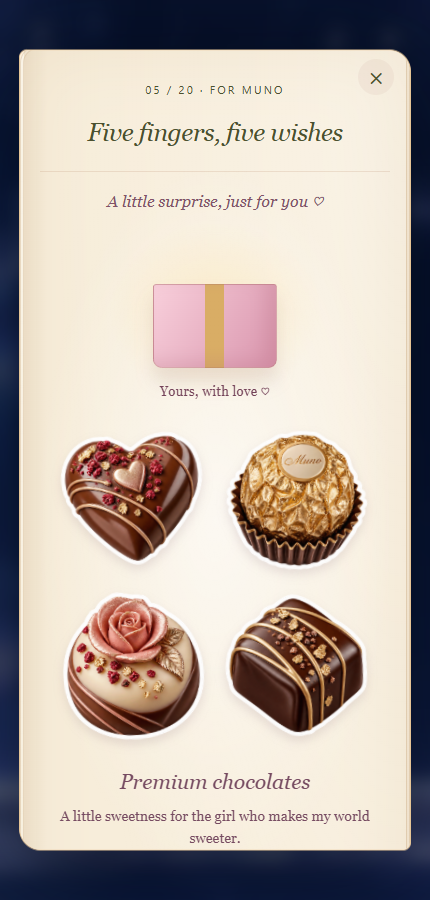
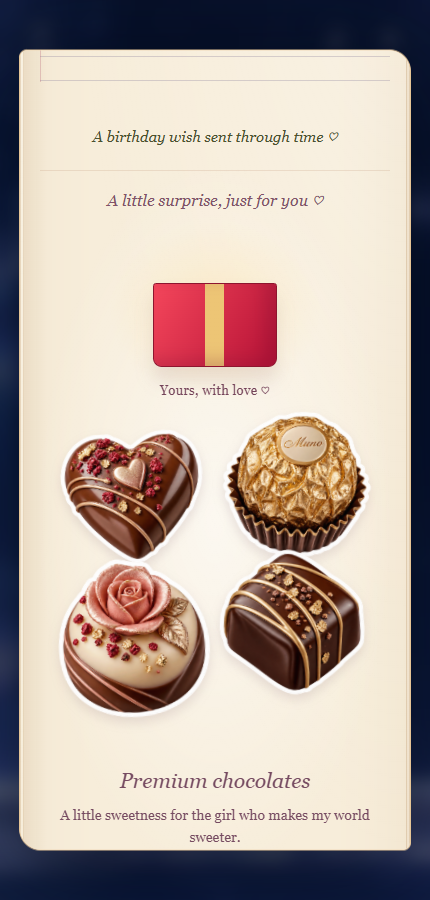
fixing letters scroll

diff --git a/letter-gifts.js b/letter-gifts.js
@@ -16,17 +16,23 @@
  const stickerNames={5:['Heart chocolate','Gold-wrapped chocolate','Rose bonbon','Chocolate praline'],10:['White teddy bear'],11:['Pearl barrette','Satin bow clip','Silk scrunchie','Floral hair comb'],12:['Enchanted handheld mirror'],13:['Personalized water bottle','Personalized coffee mug'],14:['Pink sunglasses','Floral sunglasses case'],15:['Rose gold fountain pen','Floral diary'],16:['Moon pendant'],17:['Perfume','Lipstick'],18:['Sapphire necklace','Sapphire bracelet'],19:['Romantic music globe']};
  let section;
  window.showLetterGift=(number,eligible)=>{
-  if(!section){section=document.createElement('section');section.id='letter-gift';section.setAttribute('aria-label','Your birthday gift');document.getElementById('message').before(section);}
+  if(!section){section=document.createElement('section');section.id='letter-gift';section.setAttribute('aria-label','Your birthday gift');document.getElementById('signature').after(section);}
   section.replaceChildren();section.className='';section.hidden=!eligible||!gifts[number];if(section.hidden)return;
   const [title,note]=gifts[number],hint=document.createElement('p'),button=document.createElement('button'),art=document.createElement('figure'),tray=document.createElement('div'),caption=document.createElement('figcaption');
   hint.className='gift-invitation';hint.textContent='A little surprise, just for you ♡';
   button.type='button';button.className='gift-box';button.setAttribute('aria-label','Open your gift');button.setAttribute('aria-expanded','false');button.setAttribute('aria-controls','gift-reveal');
   for(const part of ['gift-glow','gift-base','gift-lid','gift-bow']){const span=document.createElement('span');span.className=part;span.setAttribute('aria-hidden','true');button.append(span);}
   const label=document.createElement('span');label.className='gift-tap';label.textContent='Tap to unwrap ♡';button.append(label);
+  const tap=document.createElement('span');tap.className='gift-tap-pointer';tap.textContent='👆';tap.setAttribute('aria-hidden','true');button.append(tap);
+  const sparkles=document.createElement('span');sparkles.className='gift-sparkles';sparkles.setAttribute('aria-hidden','true');
+  for(let i=0;i<18;i++){const star=document.createElement('i'),angle=i*Math.PI*2/18,radius=48+(i%3)*22;star.textContent=i%3?'✦':'✧';star.style.setProperty('--spark-x',`${Math.cos(angle)*radius}px`);star.style.setProperty('--spark-y',`${Math.sin(angle)*radius-28}px`);star.style.setProperty('--spark-delay',`${i%4*.035}s`);sparkles.append(star);}button.append(sparkles);
   art.id='gift-reveal';art.hidden=true;tray.className='gift-stickers';tray.dataset.count=stickerNames[number].length;tray.setAttribute('role','group');tray.setAttribute('aria-label','Your gift stickers');
   stickerNames[number].forEach((name,index)=>{const img=document.createElement('img');img.className='gift-sticker';img.src=`assets/gifts/stickers/gift-${String(number).padStart(2,'0')}-${index+1}.webp`;img.alt=name;img.width=600;img.height=600;img.decoding='async';img.style.setProperty('--sticker-delay',`${index*.18}s`);tray.append(img);});
   const heading=document.createElement('strong');heading.textContent=title;const text=document.createElement('p');text.textContent=note;caption.append(heading,text);art.append(tray,caption);
-  button.addEventListener('click',()=>{if(section.classList.contains('unwrapped'))return;section.classList.add('unwrapped');button.setAttribute('aria-expanded','true');art.hidden=false;label.textContent='Yours, with love ♡';});
+  button.addEventListener('click',()=>{if(section.classList.contains('unwrapped'))return;section.classList.add('unwrapped');button.setAttribute('aria-expanded','true');art.hidden=false;label.textContent='Yours, with love ♡';
+   // Measure each landing position so every sticker starts inside the actual box.
+   const box=button.getBoundingClientRect();for(const img of tray.children){const target=img.getBoundingClientRect();img.style.setProperty('--launch-x',`${box.left+box.width/2-target.left-target.width/2}px`);img.style.setProperty('--launch-y',`${box.top+70-target.top-target.height/2}px`);}section.classList.add('gift-launched');
+  });
   section.append(hint,button,art);
  };
 })();

diff --git a/index.html b/index.html
@@ -1,4 +1,4 @@
-<!doctype html><html lang="en"><head><meta charset="utf-8"><meta name="viewport" content="width=device-width,initial-scale=1,viewport-fit=cover"><meta name="theme-color" content="#080e23"><meta name="description" content="Twenty birthday wishes on a fairy-tale journey from Earth to the Moon."><title>For Muno · A Night to Remember</title><link rel="icon" href="assets/favicon.svg"><link rel="stylesheet" href="style.css?v=21"><script defer src="config.js?v=11"></script><script defer src="letter-gifts.js?v=2"></script><script defer src="letter-writing.js?v=3"></script><script defer src="game.js?v=26"></script></head><body>
+<!doctype html><html lang="en"><head><meta charset="utf-8"><meta name="viewport" content="width=device-width,initial-scale=1,viewport-fit=cover"><meta name="theme-color" content="#080e23"><meta name="description" content="Twenty birthday wishes on a fairy-tale journey from Earth to the Moon."><title>For Muno · A Night to Remember</title><link rel="icon" href="assets/favicon.svg"><link rel="stylesheet" href="style.css?v=22"><script defer src="config.js?v=11"></script><script defer src="letter-gifts.js?v=3"></script><script defer src="letter-writing.js?v=3"></script><script defer src="game.js?v=26"></script></head><body>
 <main id="app"><canvas id="scene" aria-label="Earth-to-Moon birthday adventure"></canvas>
 <section id="entrance"><div id="greeting" class="gate"><span class="flower">✿</span><h1>Hi Dear.</h1><p>Are you <span id="recipient"></span>?</p><div class="choices"><button id="yes" class="primary">Yes ♡</button><button id="no" class="glass">No</button></div><p id="no-message" class="feedback" aria-live="polite"></p></div>
 <form id="secret" class="gate" hidden><span class="flower">♡</span><h1>Our little secret.</h1><label for="answer">What does he call you?</label><input id="answer" placeholder="Your special nickname" autocomplete="off" autocapitalize="off" spellcheck="false" maxlength="80" required aria-describedby="answer-message"><button id="enter" class="primary" type="submit">Enter our world ✧</button><p id="answer-message" class="feedback" aria-live="polite"></p><button id="back" class="text-button" type="button">Back</button></form></section>
@@ -16,6 +16,7 @@
 <dialog id="journal" aria-labelledby="journal-title"><article class="paper"><button id="close-journal" class="close" aria-label="Close memories">×</button><span class="eyebrow">YOURS, ALWAYS</span><h2 id="journal-title">Seven little letters</h2><div id="journal-list"></div><button id="restart" class="text-button">Begin the whole journey again</button><div id="reset-confirm" hidden><p>Start again and clear your collected letters?</p><button id="reset-yes" class="glass">Start again</button><button id="reset-no" class="text-button">Keep my memories</button></div></article></dialog>
 <div id="end-reminder" hidden role="alert">You left your letter behind, my precious girl. Collect it first. ♡</div><div id="toast" role="status" aria-live="polite"></div><span id="live" class="sr-only" aria-live="polite"></span>
 </main></body></html>
+
 
 
 

diff --git a/style.css b/style.css
@@ -62,3 +62,22 @@ dialog{position:fixed;left:0;right:0;top:var(--dialog-top,50%);bottom:auto;margi
 #gift-reveal .gift-sticker:nth-child(even){--sticker-turn:4deg}
 #gift-reveal .gift-stickers[data-count="1"] .gift-sticker{max-width:285px;max-height:300px;--sticker-turn:-2deg}
 @keyframes sticker-unbox{0%{opacity:0;transform:translateY(-28px) scale(.3) rotate(-12deg)}65%{opacity:1;transform:translateY(0) scale(1.05) rotate(var(--sticker-turn))}100%{opacity:1;transform:translateY(0) scale(1) rotate(var(--sticker-turn))}}
+/* One vertical diary scroll; horizontal scrolling remains available for long lines. */
+#letter.birthday-paper{overflow-y:auto;overscroll-behavior-y:contain;touch-action:pan-x pan-y}
+#letter.birthday-paper #message{max-height:none;overflow-y:hidden;overscroll-behavior:auto;touch-action:pan-x pan-y}
+#letter-gift{overflow:visible}
+.gift-base{border-color:#8e152f;background:linear-gradient(90deg,transparent 42%,#edc575 42% 57%,transparent 57%),linear-gradient(120deg,#f4465b,#b51135);box-shadow:inset -12px -6px 16px #700d303b,0 14px 17px #845c5b26}
+.gift-lid{border-color:#a31c36;background:linear-gradient(90deg,transparent 42%,#ffe1a2 42% 57%,transparent 57%),linear-gradient(#ff6673,#ce173d)}
+.gift-tap-pointer{position:absolute;top:88px;left:132px;font:33px/1 system-ui;filter:drop-shadow(0 2px 2px #60293450);pointer-events:none;animation:gift-tap-hint 1.5s ease-in-out infinite}
+.gift-tap-pointer::after{content:'';position:absolute;left:6px;top:-8px;width:25px;height:25px;border:2px solid #fff0b9;border-radius:50%;animation:gift-tap-ring 1.5s ease-out infinite}
+.unwrapped .gift-tap-pointer{display:none}
+.gift-sparkles{position:absolute;left:50%;top:65px;pointer-events:none;z-index:4}
+.gift-sparkles i{position:absolute;left:0;top:0;font:20px/1 Georgia;color:#d99013;opacity:0;text-shadow:0 0 7px #ffe5a3;font-style:normal}
+.unwrapped .gift-sparkles i{animation:gift-sparkle .8s ease-out var(--spark-delay) both}
+#gift-reveal .gift-sticker{animation:none;opacity:0}
+#letter-gift.gift-launched .gift-sticker{animation:gift-launch 1.1s cubic-bezier(.18,.7,.25,1) calc(.3s + var(--sticker-delay)) both}
+@keyframes gift-tap-hint{0%,100%{transform:translateY(5px) rotate(-12deg)}45%{transform:translateY(-5px) rotate(-12deg)}}
+@keyframes gift-tap-ring{0%{transform:scale(.45);opacity:0}35%{opacity:1}90%,100%{transform:scale(1.5);opacity:0}}
+@keyframes gift-sparkle{0%{opacity:0;transform:scale(.1)}18%{opacity:1}100%{opacity:0;transform:translate(var(--spark-x),var(--spark-y)) scale(.2) rotate(90deg)}}
+@keyframes gift-launch{0%{opacity:0;transform:translate(var(--launch-x),var(--launch-y)) scale(.06) rotate(-12deg)}15%{opacity:1}68%{opacity:1;transform:translate(0,-24px) scale(1.08) rotate(var(--sticker-turn))}100%{opacity:1;transform:translate(0,0) scale(1) rotate(var(--sticker-turn))}}
+@media(prefers-reduced-motion:reduce){#letter-gift.gift-launched .gift-sticker{opacity:1}.gift-sparkles{display:none}}

diff --git a/assets/gifts/README.md b/assets/gifts/README.md
@@ -9,3 +9,5 @@ Generated with built-in imagegen. Shared prompt: separate isolated high-definiti
 Counts: 5 four chocolates; 10 teddy; 11 four hair accessories; 12 mirror; 13 bottle and mug; 14 sunglasses and case; 15 pen and diary; 16 moon pendant; 17 perfume and lipstick; 18 sapphire necklace and bracelet; 19 music globe.
 
 Validated with `node tests/verify-gift-stickers.cjs` (22 separate alpha WebPs, white edges and clear padding) and `node tests/verify-letter-gifts.cjs` (challenge completion, item counts and mappings, unwrapping, exclusions, reopening, reduced motion and browser errors).
+
+Reading/unwrapping update: the message uses its full natural height with horizontal scrolling, and the diary dialog owns vertical scrolling. Gifts follow the signature so unopened boxes never gate reading. Red/gold boxes have an animated tapping hand. Clicking triggers a sparkle burst, then individually staggered stickers scale from 6% at measured box coordinates to full size. Reduced motion reveals immediately. tests/verify-gift-scroll.cjs verifies a 50-line diary can reach its final line with a closed gift, plus the red box, hint and launch effects.
